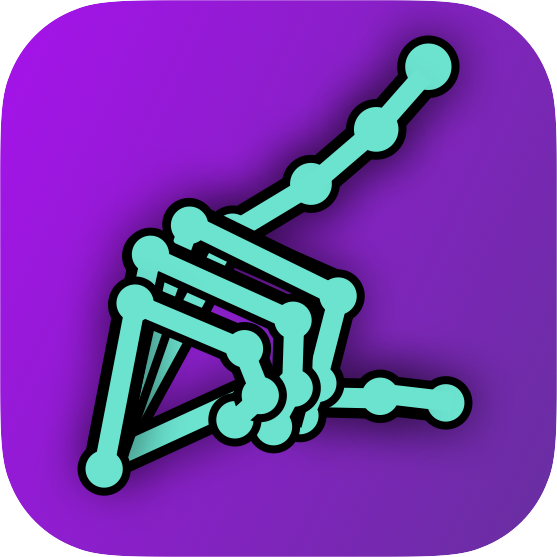
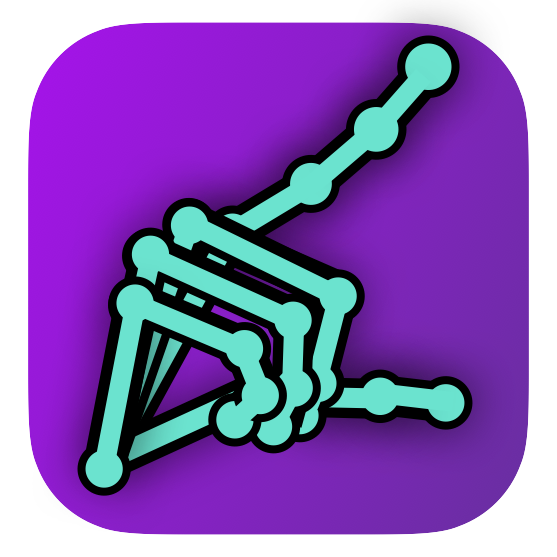
Results: pause overlay, all-plots highlight, chevron alignment, label tweaks
- Trial-title chevron now lives in a fixed-width slot so the
  '▾'/'▸' width difference no longer shifts the 'Trial: NAME'
  text when toggling collapsed state.
- Add a 'Pause' overlay checkbox between Close and the velocity
  events.  Pause frames come from /api/skeleton/{id}/events
  (the same source labels.js uses) — fetched alongside traces
  and movements at subject-load time and cached in module-level
  _savedEvents.  Pauses are rendered as purple dots on each
  per-trial distance plot, converted from global to trial-local
  frames via trial.start_frame (newly included in the traces
  response).
- Insert a vertical '|' separator between the distance-event
  overlays (Peak/Open/Close/Pause) and the velocity-event
  overlays (Peak Open Vel / Peak Close Vel) to make the two
  groups visually distinct.
- Shorten 'Peak Distance' label to 'Peak'.
- The click-to-place vertical time indicator now appears on
  EVERY per-trial distance plot, EVERY per-trial velocity plot,
  and EVERY subplot of every movement-time-course plot — not
  just the trial that was clicked.  _applyHighlightTo walks the
  layout's xaxes for movement plots so each subplot gets its
  own shape.

Cache buster: results.js v=107.

Changed region(s): [[0.0, 0.0, 1.0, 1.0]]

diff --git a/movement_tracker/static/js/results.js b/movement_tracker/static/js/results.js
@@ -133,6 +133,10 @@ let _collapsedTrials = new Set();
 // here as a module-level state object so a re-render of a single
 // plot still picks the line back up.
 let _clickHL = null;            // { trialIdx, time }  or  null
+// Saved tapping events for the current subject — { open, peak, close,
+// pause } each a list of GLOBAL video-frame indices.  Used by the
+// Pause overlay on per-trial distance plots.
+let _savedEvents = null;
 const _baseShapeCount = {};     // divId → shapes.length right after newPlot
 function _registerClickPlot(divId) {
     const div = document.getElementById(divId);
@@ -170,34 +174,41 @@ function _handlePlotClick(divId, ev) {
 
 function _applyHighlightAll() {
     if (!_clickHL) return;
-    const { trialIdx } = _clickHL;
-    _applyHighlightTo(`distPlot_${trialIdx}`);
-    _applyHighlightTo(`velPlot_${trialIdx}`);
-    document.querySelectorAll('[id^="movPlot_"]').forEach(d => _applyHighlightTo(d.id));
+    // Apply to every distance/velocity plot (all trials) and every
+    // movement plot (subplot per trial).
+    document.querySelectorAll('[id^="distPlot_"], [id^="velPlot_"], [id^="movPlot_"]')
+        .forEach(d => _applyHighlightTo(d.id));
 }
 
 function _applyHighlightTo(divId) {
     if (!_clickHL) return;
     const div = document.getElementById(divId);
     if (!div || !div.layout) return;
-    const { trialIdx, time } = _clickHL;
+    const { time } = _clickHL;
     const base = _baseShapeCount[divId] || 0;
     const shapes = (div.layout.shapes || []).slice(0, base);
-    // Movement plots reference the trial's per-subplot xaxis; dist/vel
-    // plots only have one xaxis ('x').
-    let axId = 'x';
+    const lineStyle = { color: 'rgba(0,0,0,0.45)', width: 1, dash: 'dot' };
     if (divId.startsWith('movPlot_')) {
-        axId = trialIdx === 0 ? 'x' : 'x' + (trialIdx + 1);
+        // Movement plots have one subplot per trial — paint the line
+        // in EVERY subplot's x-axis.
+        const xaxes = Object.keys(div.layout)
+            .filter(k => /^xaxis(\d+)?$/.test(k))
+            .map(k => k === 'xaxis' ? 'x' : 'x' + k.slice('xaxis'.length));
+        xaxes.forEach(axId => {
+            shapes.push({
+                type: 'line', xref: axId, yref: 'paper',
+                x0: time, x1: time, y0: 0, y1: 1,
+                line: lineStyle, layer: 'above',
+            });
+        });
+    } else {
+        // Dist/Vel plots — single xaxis 'x'.
+        shapes.push({
+            type: 'line', xref: 'x', yref: 'paper',
+            x0: time, x1: time, y0: 0, y1: 1,
+            line: lineStyle, layer: 'above',
+        });
     }
-    shapes.push({
-        type: 'line',
-        xref: axId,
-        yref: 'paper',
-        x0: time, x1: time,
-        y0: 0, y1: 1,
-        line: { color: 'rgba(0,0,0,0.45)', width: 1, dash: 'dot' },
-        layer: 'above',
-    });
     try { Plotly.relayout(divId, { shapes }); } catch (_) {}
 }
 let currentTab = 'distances';
@@ -363,13 +374,17 @@ async function loadDistances(subjectId) {
         || document.getElementById('distSourceSelect')?.value || 'auto';
 
     try {
-        // Load traces and movements in parallel
-        const [traceData, movData] = await Promise.all([
+        // Load traces, movements, and saved events in parallel.
+        // Saved events power the Pause overlay (pauses aren't tied to
+        // a movement object the way Open/Close are).
+        const [traceData, movData, evData] = await Promise.all([
             API.get(`/api/results/${subjectId}/traces?source=${selectedSource}`),
             API.get(`/api/results/${subjectId}/movements?source=${selectedSource}`).catch(() => null),
+            API.get(`/api/skeleton/${subjectId}/events`).catch(() => null),
         ]);
 
         cachedTraces = traceData;
+        _savedEvents = evData || null;
         _resetYOverrides();   // new subject/source → fresh full-range sliders
 
         // Update source selector with available sources
@@ -2174,6 +2189,7 @@ function renderAllDistancePlots() {
     const overlayPeakDist = document.getElementById('overlayPeakDist').checked;
     const overlayOpen = document.getElementById('overlayOpen')?.checked;
     const overlayClose = document.getElementById('overlayClose')?.checked;
+    const overlayPause = document.getElementById('overlayPause')?.checked;
     const overlayPeakOpenVel = document.getElementById('overlayPeakOpenVel').checked;
     const overlayPeakCloseVel = document.getElementById('overlayPeakCloseVel').checked;
 
@@ -2247,11 +2263,19 @@ function renderAllDistancePlots() {
         const titleSpan = document.createElement('span');
         const trialKey = trial.name || `trial_${idx}`;
         const isCollapsed = _collapsedTrials.has(trialKey);
+        // Chevron in a fixed-width slot so '▾' and '▸' (different
+        // glyph widths) don't shift the trial-name text horizontally.
+        const chevSpan = document.createElement('span');
+        chevSpan.style.cssText = 'display:inline-block;width:12px;text-align:center;';
+        const labelSpan = document.createElement('span');
+        labelSpan.style.marginLeft = '4px';
         const _renderTitle = () => {
-            const arrow = _collapsedTrials.has(trialKey) ? '▸' : '▾';
-            titleSpan.textContent = `${arrow} Trial: ${_trialPartOf(trial)}`;
+            chevSpan.textContent = _collapsedTrials.has(trialKey) ? '▸' : '▾';
+            labelSpan.textContent = `Trial: ${_trialPartOf(trial)}`;
         };
         _renderTitle();
+        titleSpan.appendChild(chevSpan);
+        titleSpan.appendChild(labelSpan);
         titleSpan.style.cssText = 'font-size:13px;color:#666;font-weight:600;cursor:pointer;user-select:none;';
         titleSpan.title = 'Click to collapse/expand this trial\'s distance + velocity plots';
         titleSpan.addEventListener('click', () => {
@@ -2371,6 +2395,34 @@ function renderAllDistancePlots() {
         };
         if (overlayOpen) _evMarkers('open', 'open_frame', '#2ca02c', 'Open');
         if (overlayClose) _evMarkers('close', 'close_frame', '#d62728', 'Close');
+
+        // Pause overlay — pauses live in saved events (events.csv),
+        // not in the per-movement dicts.  Pause frames are GLOBAL
+        // video frame indices; convert with trial.start_frame.
+        if (overlayPause && _savedEvents && Array.isArray(_savedEvents.pause)
+                && trial.distances && trial.start_frame != null) {
+            const sf = trial.start_frame;
+            const ef = (trial.end_frame != null)
+                ? trial.end_frame
+                : (sf + trial.distances.length - 1);
+            const fpsT = trial.fps || fps;
+            const xs = [], ys = [];
+            _savedEvents.pause.forEach(gf => {
+                if (!Number.isFinite(gf) || gf < sf || gf > ef) return;
+                const local = gf - sf;
+                const v = trial.distances[local];
+                if (v == null || !isFinite(v)) return;
+                xs.push(+(local / fpsT).toFixed(3));
+                ys.push(v);
+            });
+            if (xs.length) {
+                distOverlays.push({
+                    x: xs, y: ys, type: 'scatter', mode: 'markers',
+                    marker: { color: '#cc66ff', size: 7, symbol: 'circle' },
+                    name: 'Pause', hoverinfo: 'skip', showlegend: false,
+                });
+            }
+        }
 
         // Sequence shading
         if (showSequences && seqAssignments && seqAssignments.byTrial[idx]) {
@@ -4321,7 +4373,7 @@ function _syncImiRefVisibility() {
 _syncImiRefVisibility();
 
 // Overlay controls: re-render distance/velocity plots
-['overlayPeakDist', 'overlayOpen', 'overlayClose', 'overlayPeakOpenVel', 'overlayPeakCloseVel'].forEach(id => {
+['overlayPeakDist', 'overlayOpen', 'overlayClose', 'overlayPause', 'overlayPeakOpenVel', 'overlayPeakCloseVel'].forEach(id => {
     document.getElementById(id).addEventListener('change', () => {
         if (cachedTraces) renderAllDistancePlots();
     });

diff --git a/movement_tracker/static/results.html b/movement_tracker/static/results.html
@@ -78,9 +78,11 @@
                 <span style="border-left:1px solid #ccc;height:20px;margin:0 6px;"></span>
                 <label title="When checked, the Y-range sliders on any trial control every trial's plots of the same type."><input type="checkbox" id="lockYAxis" checked> Lock Y-axis</label>
                 <span style="border-left:1px solid #ccc;height:20px;margin:0 6px;"></span>
-                <label><input type="checkbox" id="overlayPeakDist"> Peak Distance</label>
+                <label><input type="checkbox" id="overlayPeakDist"> Peak</label>
                 <label><input type="checkbox" id="overlayOpen"> Open</label>
                 <label><input type="checkbox" id="overlayClose"> Close</label>
+                <label><input type="checkbox" id="overlayPause"> Pause</label>
+                <span style="border-left:1px solid #ccc;height:20px;margin:0 6px;"></span>
                 <label><input type="checkbox" id="overlayPeakOpenVel"> Peak Open Vel</label>
                 <label><input type="checkbox" id="overlayPeakCloseVel"> Peak Close Vel</label>
                 <span id="overlayR2" style="font-size:11px;color:#666;font-weight:600;"></span>
@@ -401,6 +403,6 @@
     <script src="https://cdn.plot.ly/plotly-2.35.2.min.js"></script>
     <script src="/static/js/nav.js?v=12"></script>
     <script src="/static/js/api.js"></script>
-    <script src="/static/js/results.js?v=106"></script>
+    <script src="/static/js/results.js?v=107"></script>
 </body>
 </html>

diff --git a/movement_tracker/routers/results.py b/movement_tracker/routers/results.py
@@ -1402,6 +1402,8 @@ def get_traces(subject_id: int, source: str = Query("auto")) -> dict:
         result_trials.append({
             "name": t["trial_name"],
             "fps": fps,
+            "start_frame": int(t["start_frame"]),
+            "end_frame": int(t["end_frame"]),
             "distances": trial_dist,
             "velocities": trial_vel,
         })